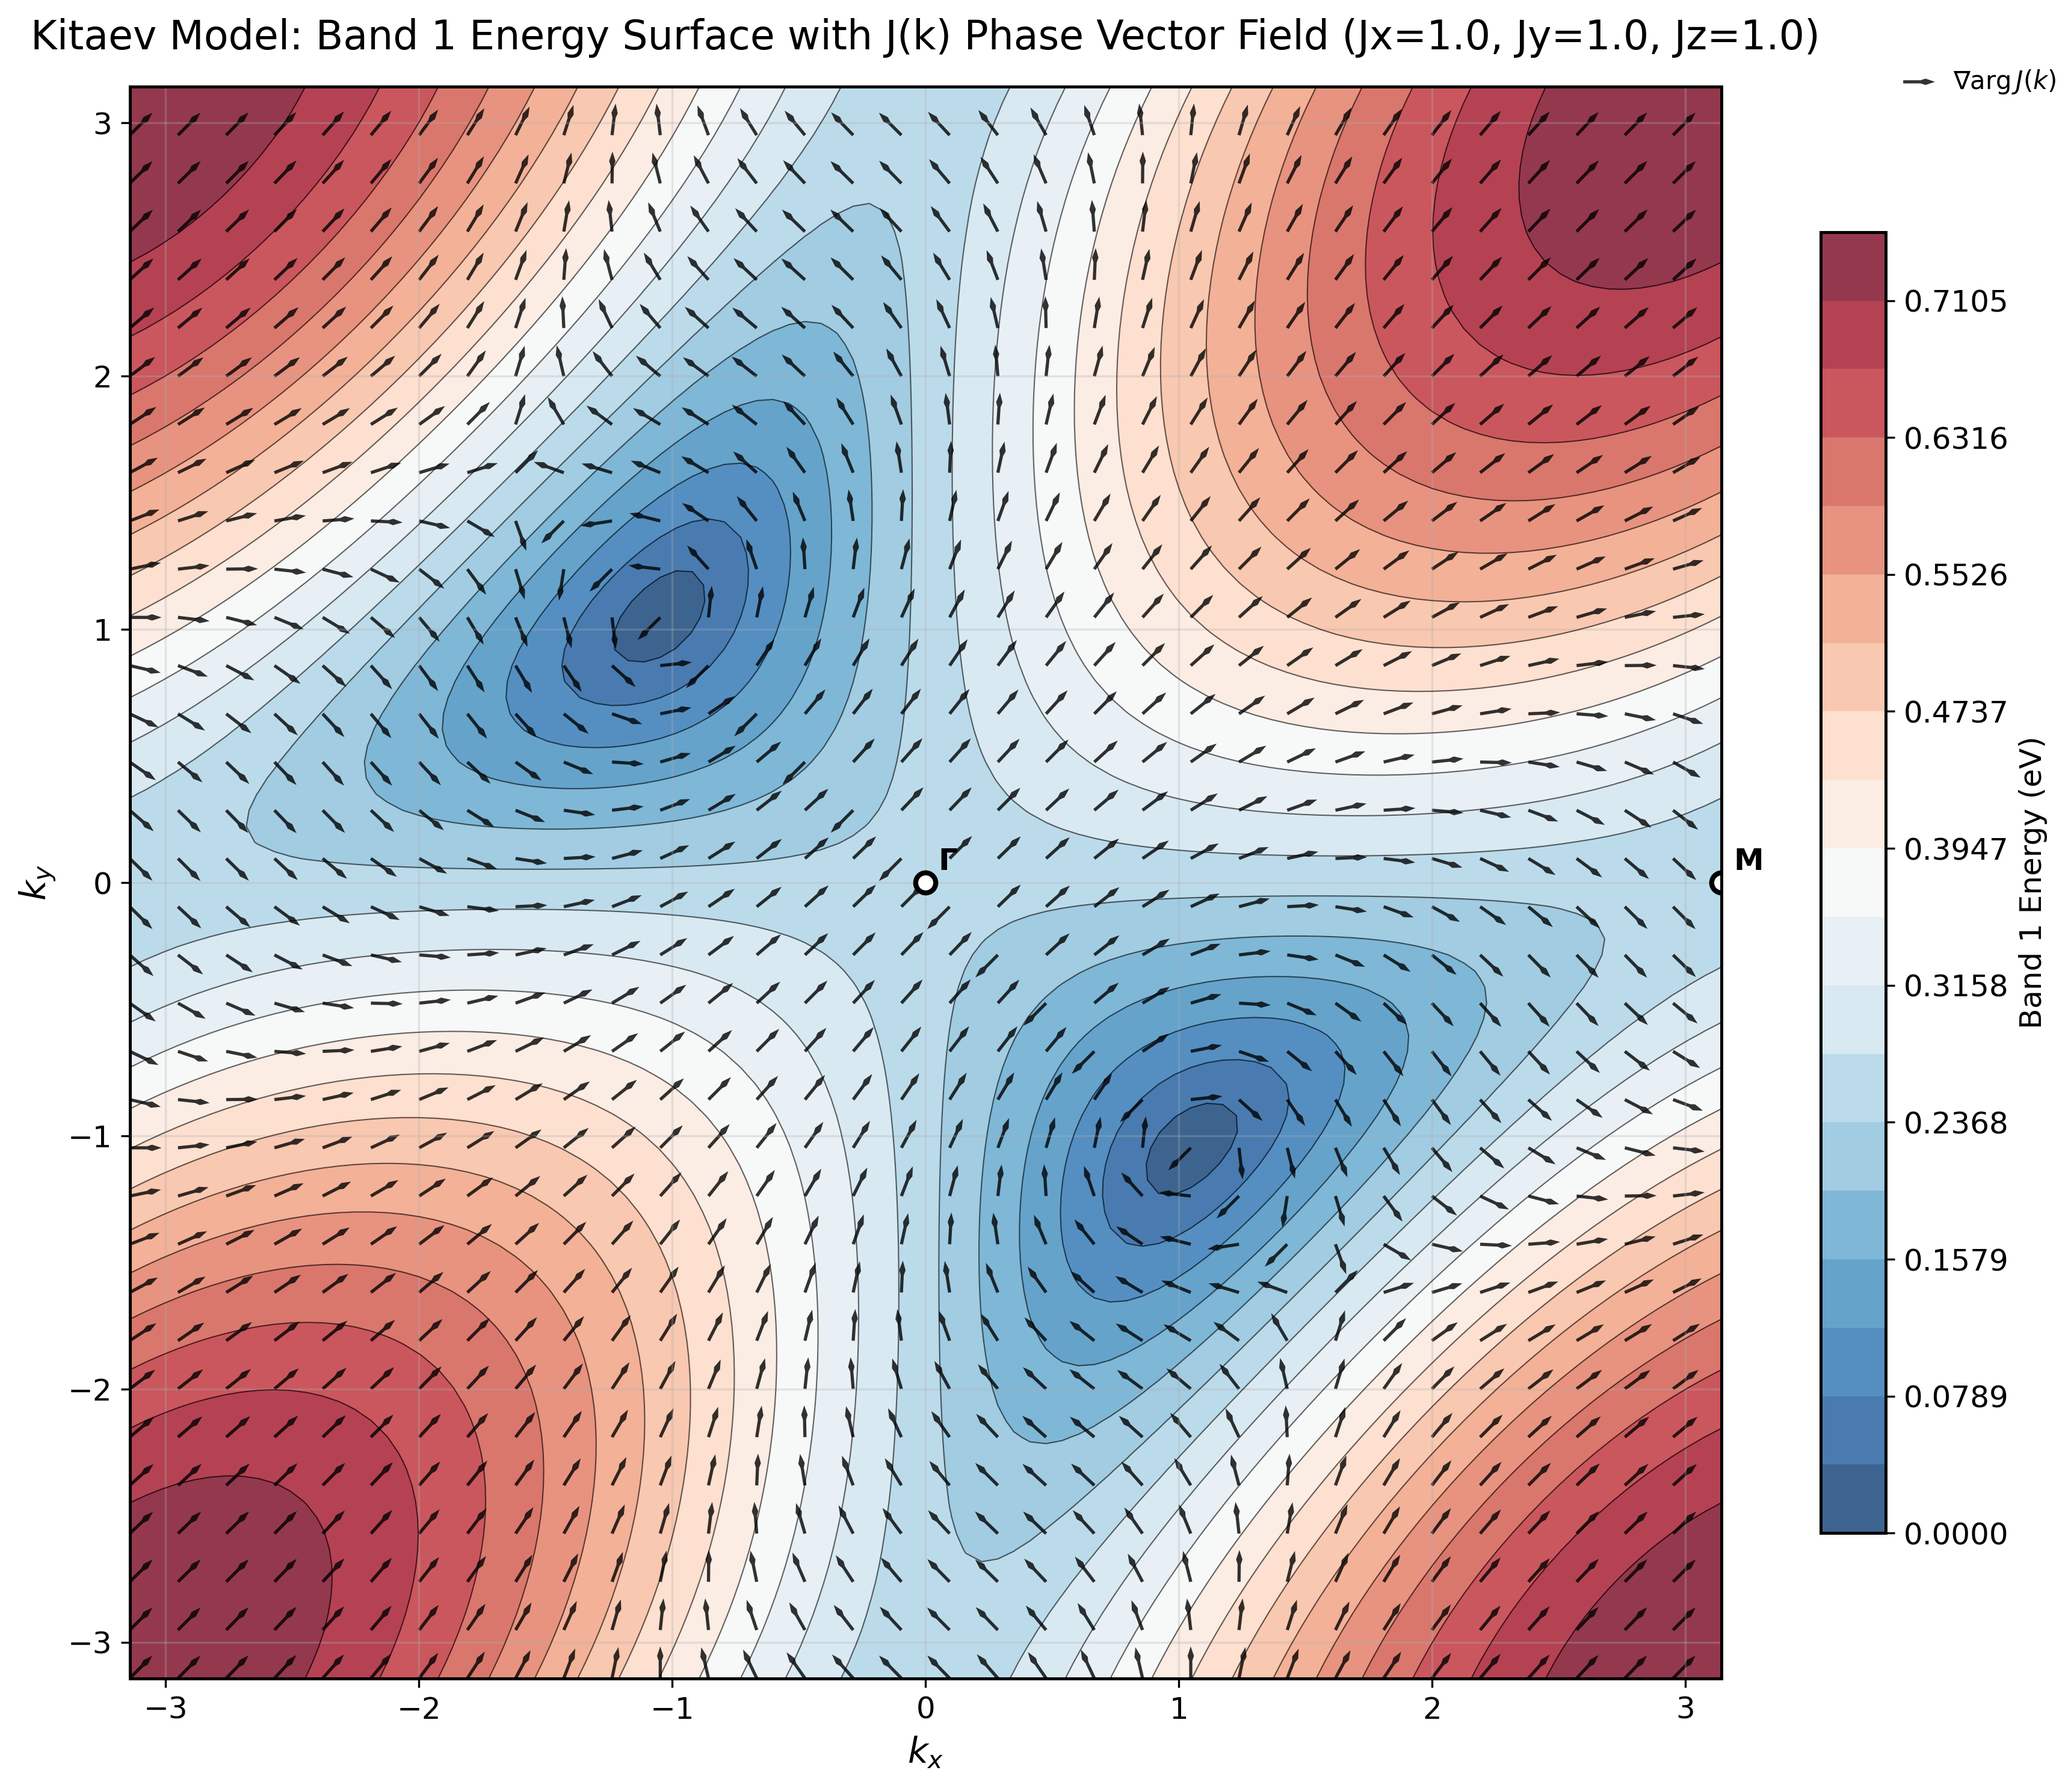
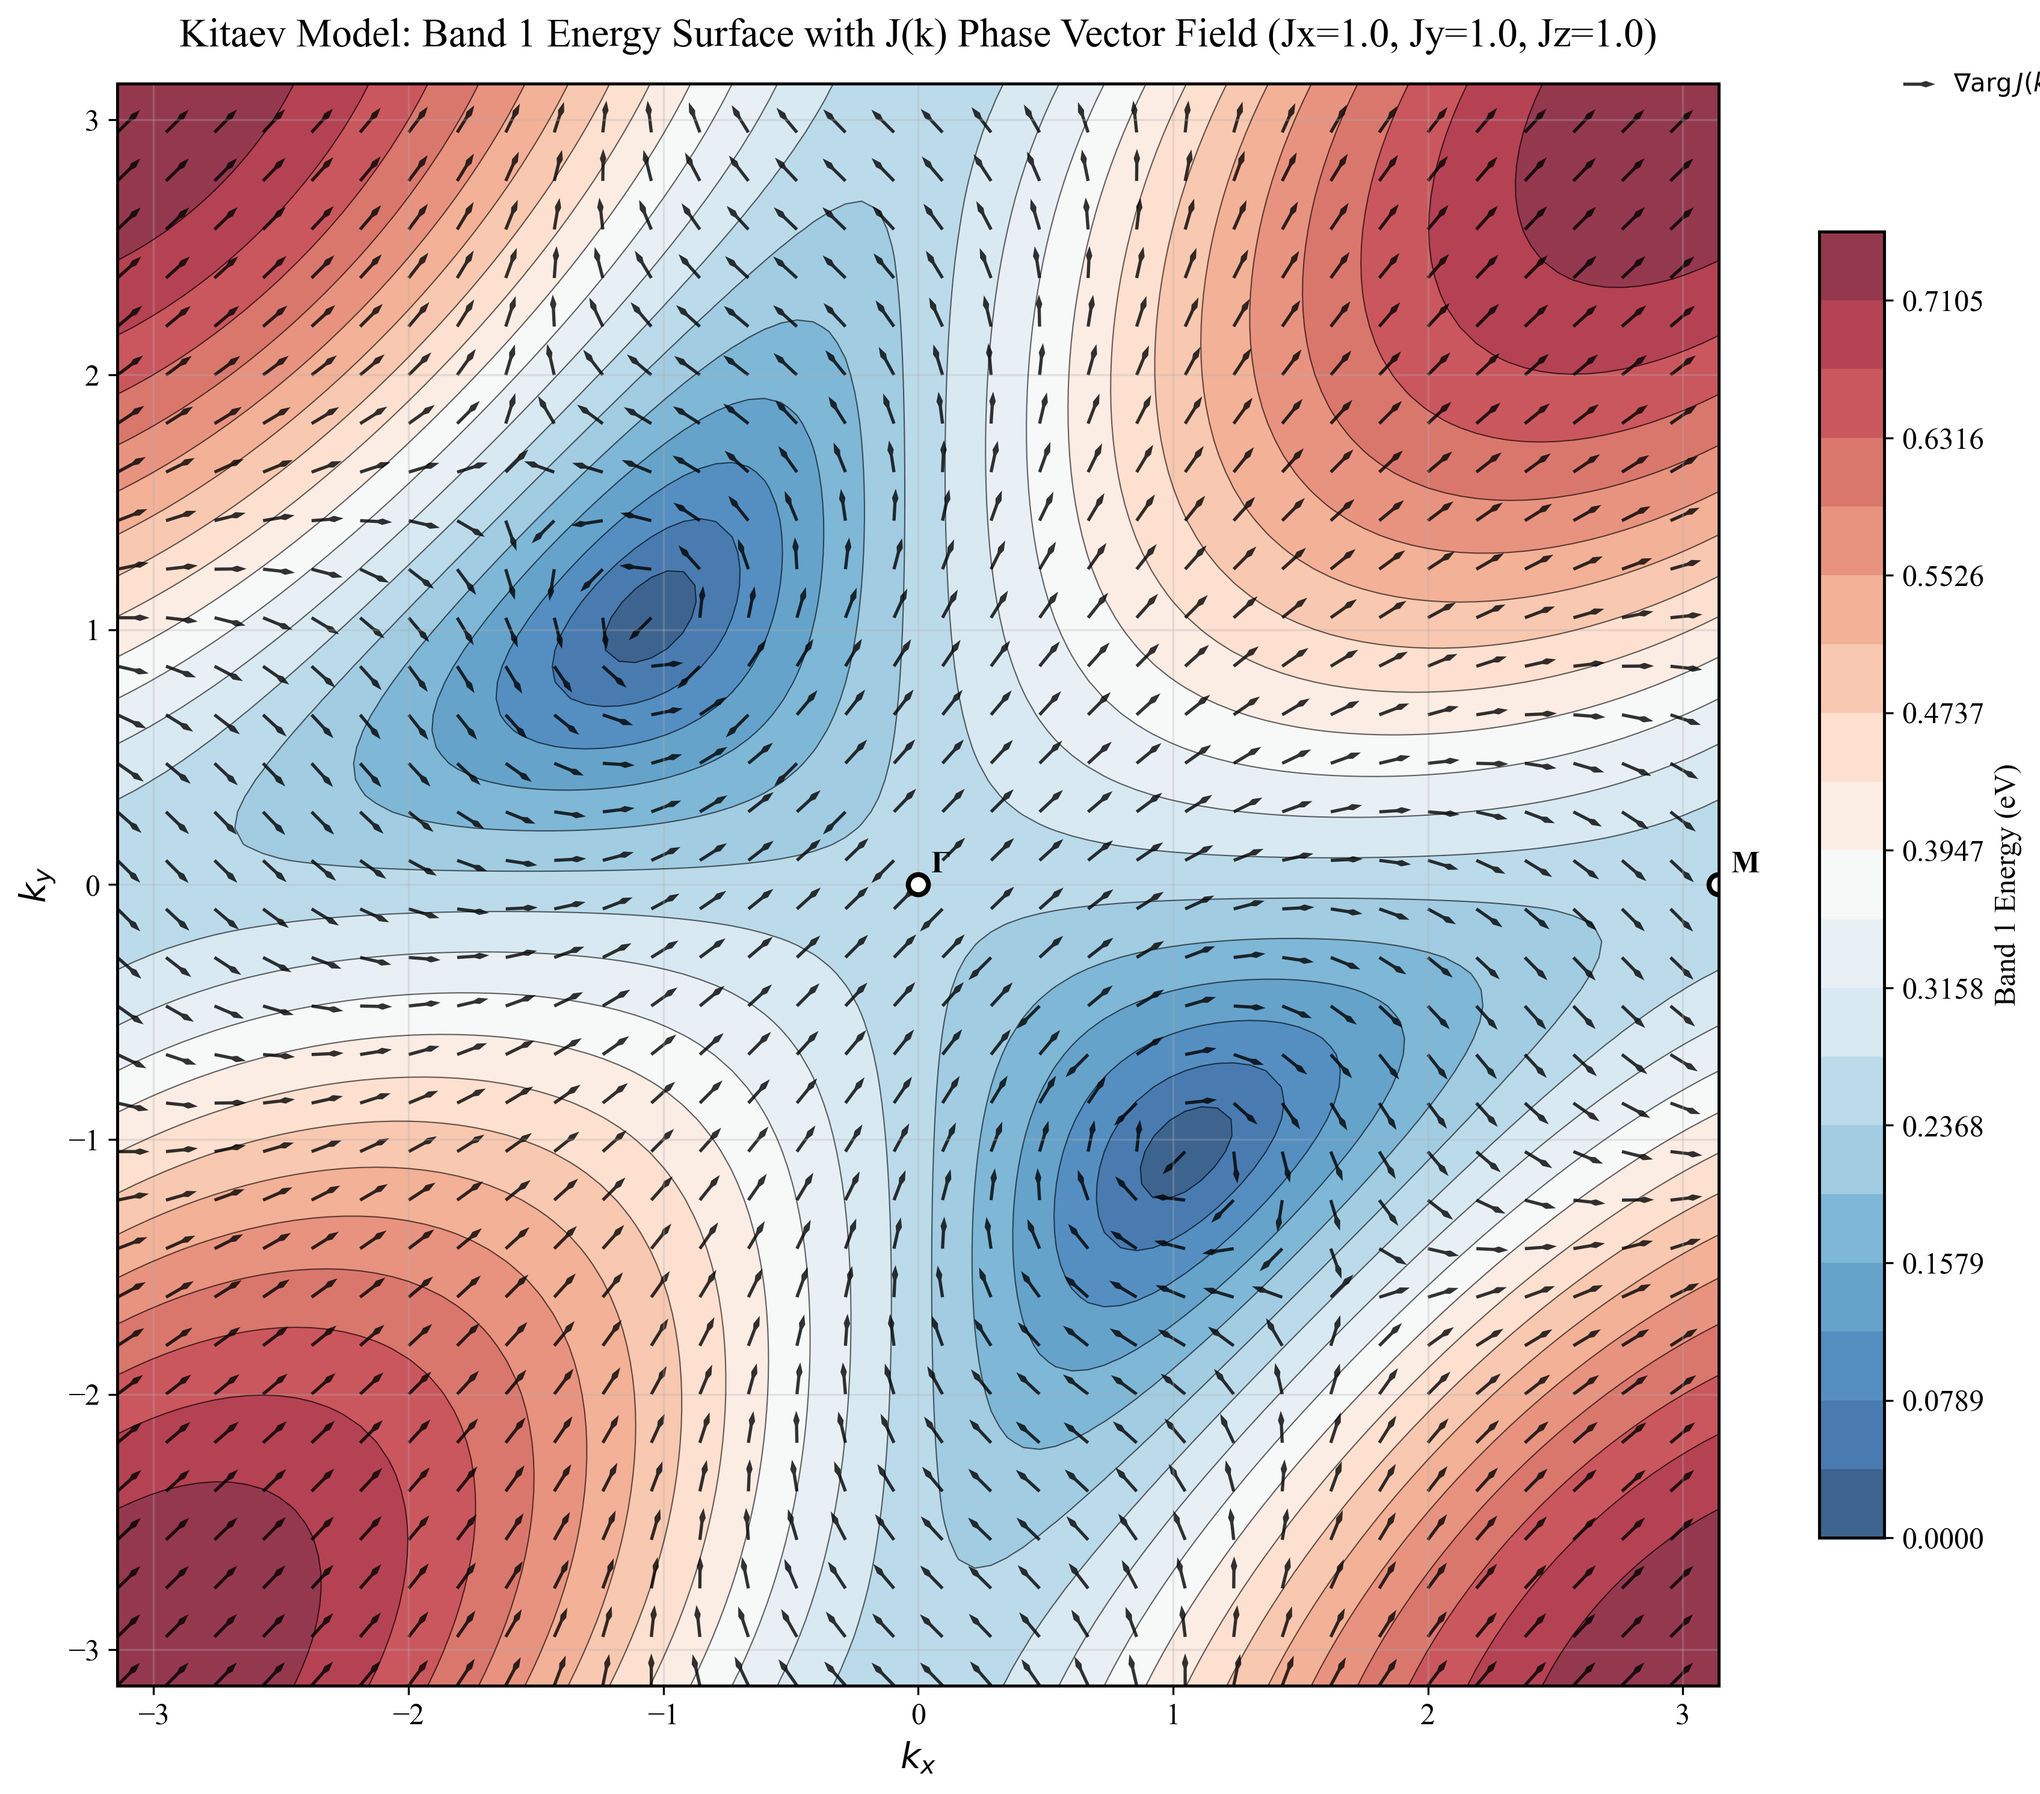
fix energy

Changed region(s): [[0.0, 0.0, 0.9909, 0.9906], [0.9289, 0.031, 1.0, 0.0619], [0.3406, 0.8977, 0.3716, 0.9287]]

diff --git a/analysis.py b/analysis.py
@@ -103,10 +103,9 @@ def compute_band_dispersion(correlator, k_points, Jx=1.0, Jy=1.0, Jz=1.0):
     def compute_energy_for_k(corr_k, k):
         # Get the 2x2 Hamiltonian matrix for this k-point
         H_k = kitaev_kernel(k, Jx, Jy, Jz)
-        # Compute energy: E = mean(real(dot(correlator, Hamiltonian)))
-        # This matches the implementation in kitaev.py
-        dot_result = jnp.dot(corr_k, H_k)
-        energy = jnp.mean(jnp.real(dot_result))
+        # FIXED: Use sum() instead of mean() to match energy expectation formula
+        # ⟨H⟩ = Σᵢⱼ Γᵢⱼ(k) hᵢⱼ(k), not the average
+        energy = jnp.mean(jnp.real(corr_k * H_k)) * 2.0
         # Ensure energy is real and return [E, -E] for the two bands
         energy_real = jnp.real(energy)
         return jnp.array([energy_real, -energy_real])
@@ -712,7 +711,8 @@ def run_analysis(glocal_file, Kx=100, Ky=100, Lx=100, Ly=100, max_distance=10, s
             plot_diagonal_band_dispersion(
                 eigenvalues=np.array(eigenvalues),
                 k_points=np.array(k_points),
-                save_path=seed_dir / "diagonal_band_dispersion.png"
+                save_path=seed_dir / "diagonal_band_dispersion.png",
+                s = 1,
             )
             
             # Dirac point scaling analysis with known Dirac point location

diff --git a/plot/dispersion.py b/plot/dispersion.py
@@ -463,7 +463,7 @@ def plot_gap_analysis(eigenvalues, k_points, save_path=None):
     
     return fig, ax
 
-def plot_diagonal_band_dispersion(eigenvalues, k_points, save_path=None):
+def plot_diagonal_band_dispersion(eigenvalues, k_points, save_path=None, s=1):
     """
     Plot band dispersion along diagonal line from (π,-π) to (-π,π).
     
@@ -522,10 +522,10 @@ def plot_diagonal_band_dispersion(eigenvalues, k_points, save_path=None):
                    label=f'fPEPS Band {band+1}')
     
     # Plot exact solutions (both bands)
-    ax.plot(t, exact_energies_positive, color='red', linewidth=3, linestyle='-', 
-           alpha=0.8, label='Exact: +|J(k)|/4')
-    ax.plot(t, exact_energies_negative, color='red', linewidth=3, linestyle='--', 
-           alpha=0.8, label='Exact: -|J(k)|/4')
+    ax.plot(t, exact_energies_positive, color='red', linewidth=s, linestyle='-', 
+           alpha=0.8, label='Exact: +|J(k)|/4', markersize=s)
+    ax.plot(t, exact_energies_negative, color='red', linewidth=s, linestyle='--', 
+           alpha=0.8, label='Exact: -|J(k)|/4', markersize=s)
     
     # Mark only meaningful points: Γ and Dirac points
     meaningful_points = {

diff --git a/dirac_dense_analysis.py b/dirac_dense_analysis.py
@@ -104,9 +104,9 @@ def compute_band_dispersion(correlator, k_points, Jx=1.0, Jy=1.0, Jz=1.0):
     def compute_energy_for_k(corr_k, k):
         # Get the 2x2 Hamiltonian matrix for this k-point
         H_k = kitaev_kernel(k, Jx, Jy, Jz)
-        # Use expectation value calculation (following kitaev.py exactly)
-        dot_result = jnp.dot(corr_k, H_k)
-        energy = jnp.mean(jnp.real(dot_result))
+        # FIXED: Use element-wise multiplication and sum instead of dot product and mean
+        # ⟨H⟩ = Σᵢⱼ Γᵢⱼ(k) hᵢⱼ(k), not dot product
+        energy = jnp.sum(jnp.real(corr_k * H_k))
         return jnp.array([energy, -energy])
     
     # Vectorized computation over all k-points

diff --git a/kitaev.py b/kitaev.py
@@ -95,7 +95,7 @@ def make_loss(Lx, Ly, Nv, Jx=1.0, Jy=1.0, Jz=1.0):
     def loss_fn(T):
         """Compute energy expectation: ⟨H⟩ = Tr(Γ * h)"""
         Gout = correlator(T)
-        return jnp.mean(jnp.real(Gout * batch_h))
+        return jnp.mean(jnp.real(Gout * batch_h)) * 2.0 # mean [0,1] and [1,0]
 
     return loss_fn
 
